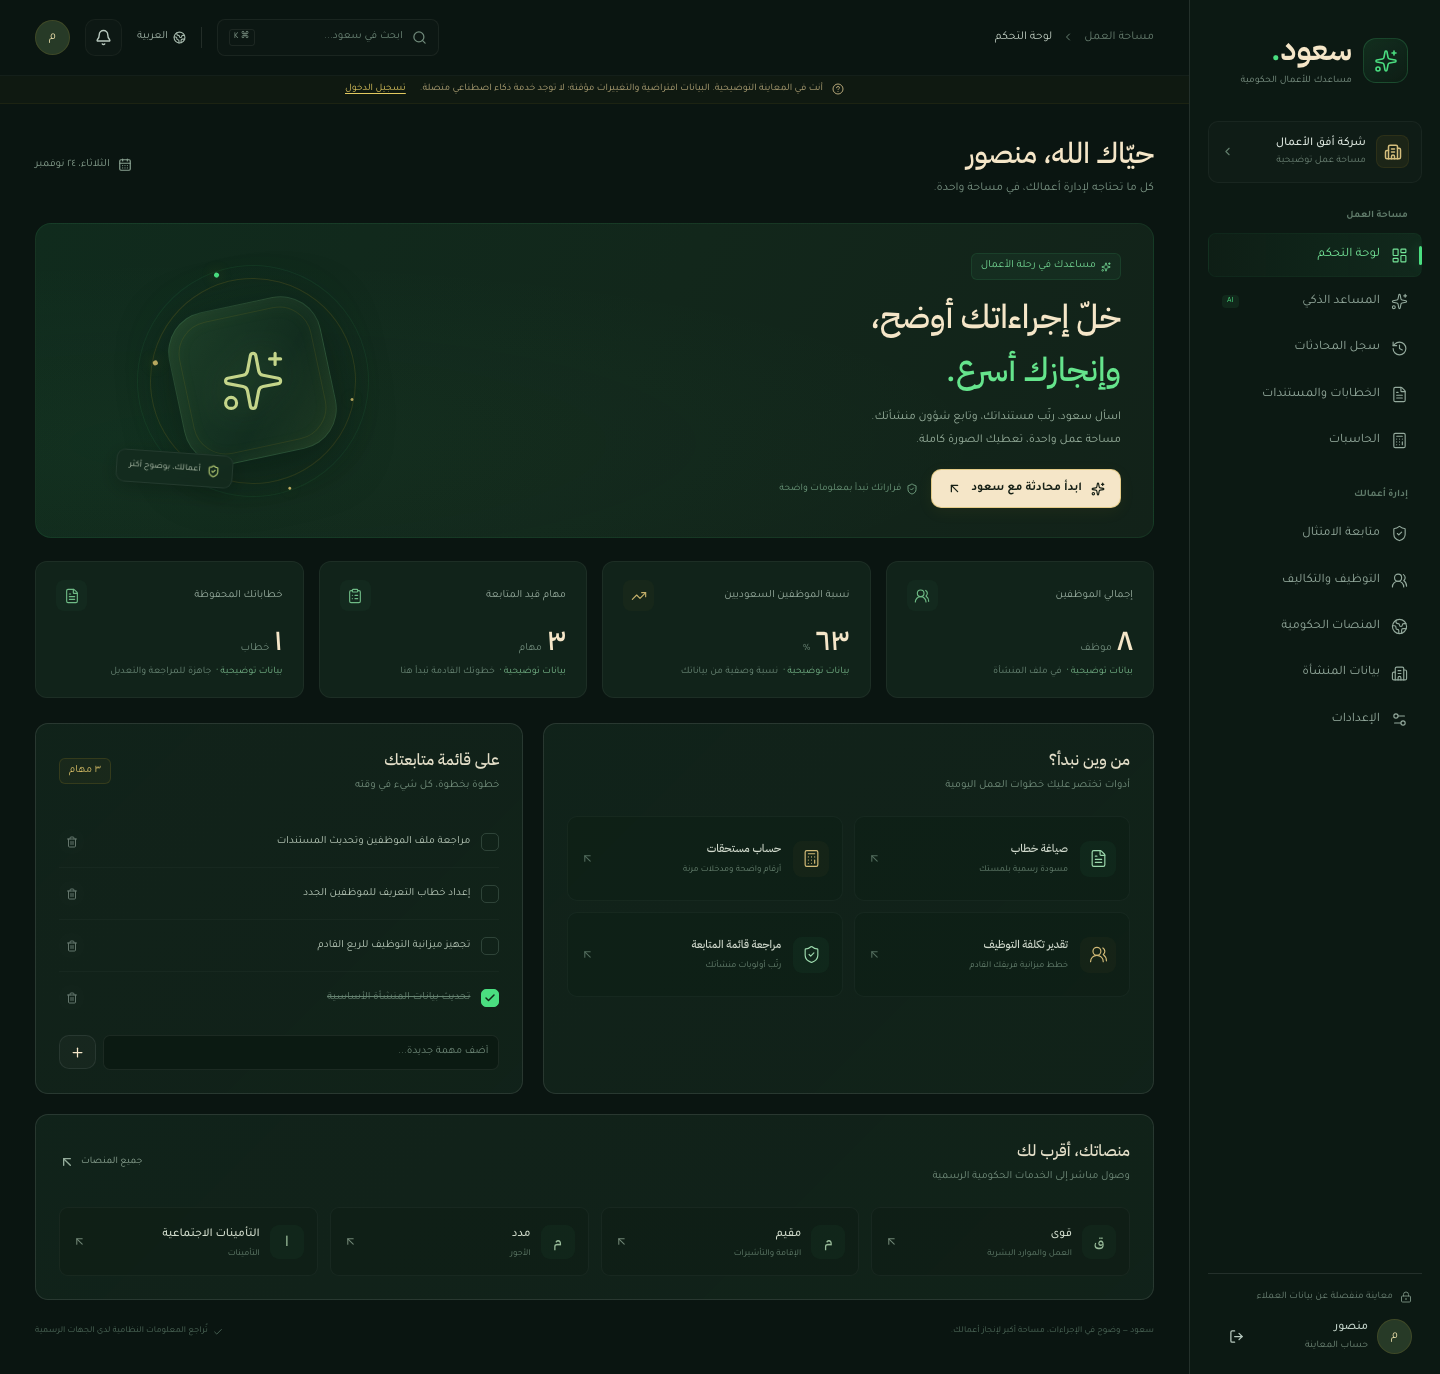
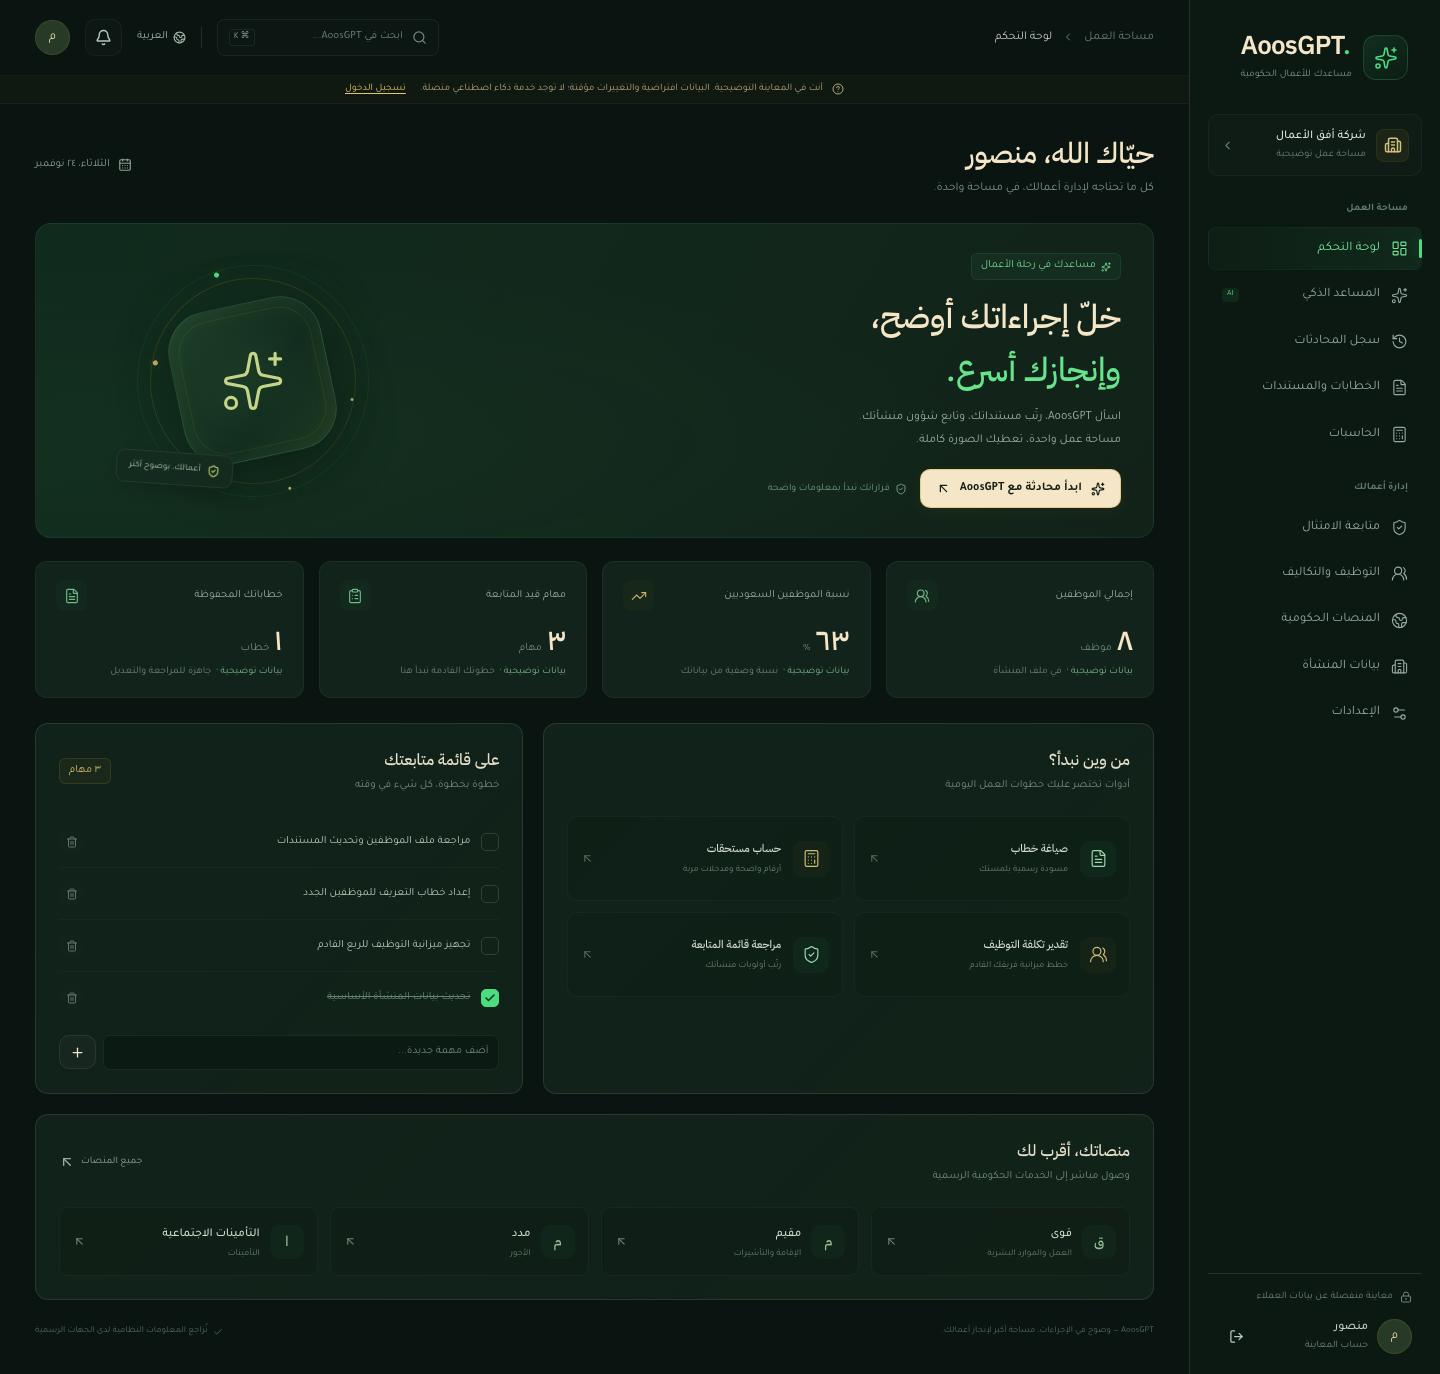
Record verified Mac browser results and refresh AoosGPT screenshots

diff --git a/web/docs/VALIDATION.md b/web/docs/VALIDATION.md
@@ -6,6 +6,8 @@
 
 الدفعة الحالية، بتاريخ **24 نوفمبر 2026 بتوقيت الرياض**، تغيّر اسم المساعد إلى AoosGPT، وتدمج المهارات الست بعد المراجعة مع ثلاثة مسارات مكملة، وتضيف وضع التعليم وعرض Markdown. لا تغيّر مخطط قاعدة البيانات أو هوية المستخدم أو سياسة عزل الشركات. تفاصيل مصدر المهارات وقرارات النقل في [مراجعة المهارات والمرجع](SKILLS_REVIEW.md).
 
+طُبّقت الدفعة على مشروع الماك في `/Users/aooos/Downloads/AoosGPT/web`. آخر مصدر تنفيذي خضع للبناء والمتصفح هو `0b2f23791c53074623a43b552ce7d7b598cd4f13`، وانتهت جولته بنجاح الساعة **11:03:27 صباحًا بتوقيت الرياض**. التحديث اللاحق لهذا التقرير والصور لا يغيّر مصدر التطبيق.
+
 ## الفحوص المنفذة
 
 | الفحص | النتيجة | ما يثبته |
@@ -13,16 +15,26 @@
 | ESLint | ناجح دون أخطاء أو تحذيرات في المصدر | اتساق الشيفرة وقواعد React/Next.js المطبقة. |
 | TypeScript | ناجح | توافق العقود والأنواع ومسارات التطبيق. |
 | Vitest | **150 اختبارًا ناجحًا في 12 ملفًا** | المصادقة وRLS والعزل والذاكرة وترتيب الرسائل واسترجاع المصادر والصوت والحاسبات، إضافة إلى توجيه المهارات ومرور الخيارات عبر API وتاريخ الرياض وعرض Markdown الآمن. |
-| بناء Next.js | ناجح للدفعة الحالية في بيئة العمل | إنشاء نسخة `standalone` وتجهيز ملفاتها الثابتة. لم يُعَد بناء هذه الدفعة على Mac بعد. |
+| بناء Next.js | **ناجح على Mac للمصدر النهائي** | إنشاء نسخة `standalone` وتجهيز ملفاتها الثابتة بعد إصلاح التمرير الأولي على الجوال. |
 | PostgreSQL فعلي + خادم الإنتاج | **22 مجموعة سيناريوهات ناجحة** | الترحيلات 001–003، الدخول والدعوات وإلغاؤها، الأدوار، الفصل بين الشركات، CRUD، سحب الجلسات، ترتيب الرسائل، وخصائص كوكي الإنتاج وترويسة العميل الموثوق. |
-| متصفح الكمبيوتر والجوال | **18 اختبارًا معرفًا؛ التنفيذ الحالي متعطل بالبيئة** | 9 اختبارات لكل قياس. تعذّر تشغيل Chromium محليًا لأن البيئة ترفض إنشاء مقبس العملية، ولم يستجب اتصال Mac. نجح جمع الاختبارات بواسطة Playwright، لكنه ليس نجاح تنفيذ. |
+| متصفح الكمبيوتر والجوال | **18 اختبارًا ناجحًا، دون تخطٍ؛ 9 لكل قياس** | التنفيذ الفعلي على Mac عبر Chromium. يشمل المهارات ووضع التعليم والمسودات وMarkdown وصلاحية المشاهد، وظهور الترحيب كاملًا قبل اللقطة وبعد بدء محادثة جديدة. اكتمل المشغّل في **23 مجموعة سيناريوهات** تشمل فحوص API/SQL والمتصفح. |
 | تدقيق تبعيات الإنتاج | **0 ثغرات مبلغ عنها** | نتيجة `npm audit --omit=dev` وقت التنفيذ؛ ليست ضمانًا بعدم وجود ثغرات غير معلنة. |
 
 تستخدم فحوص SQL كلًا من PGlite ومحرك PostgreSQL مؤقت عبر `embedded-postgres`. تُنشأ كلمات المرور والحسابات الاختبارية عشوائيًا، ويُحذف عنقود الاختبار عند الانتهاء. لا تُستخدم قاعدة المشغّل أو مفاتيح مزود حي.
 
-شُغّل `npm run check` كاملًا و`npm run test:production` على المصدر الحالي. نجحت مجموعات الإنتاج الـ22 باستخدام PostgreSQL فعلي ودور تشغيل محدود، دون استدعاء مزود حي. راجع مدقق مستقل تغييرات المهارات والواجهة، وأعاد تشغيل 82 اختبارًا مرتبطًا بها عبر أربعة ملفات؛ هذه مجموعة فرعية من الـ150 وليست اختبارات إضافية. لم تتغير إصدارات التبعيات الموجودة عند إضافة مكتبات عرض Markdown.
+شُغّل `npm run check` كاملًا و`npm run test:production` على دفعة المهارات `d4719c2` في بيئة العمل. وبعد استعادة اتصال الماك، نجح عليه `npm ci` ثم `npm run check` بما فيه الاختبارات الـ150 والبناء. استخدم الماك Node.js `24.22.3` وnpm `11.19.1`. راجع مدقق مستقل تغييرات المهارات والواجهة، وأعاد تشغيل 82 اختبارًا مرتبطًا بها عبر أربعة ملفات؛ هذه مجموعة فرعية من الـ150 وليست اختبارات إضافية. لم تتغير إصدارات التبعيات الموجودة عند إضافة مكتبات عرض Markdown.
 
-**سجل المتصفح السابق منفصل:** نجحت 12 حالة من 12 على Mac عند النسخة `cbbe831` قبل هذه الدفعة، واكتمل حينها التكامل في 23 مجموعة تشمل المتصفح. لا تُستخدم تلك النتيجة لإثبات سلامة التخطيط والتفاعل بعد تغيير الاسم وإضافة أدوات المهارات. محاولة معاينة البناء الحالي عبر المتصفح السحابي لم تتمكن من الوصول إلى خادم العمل المحلي، فلا تُحسب فحصًا بصريًا ناجحًا. المزامنة إلى Mac والنشر على الفرع البعيد لم ينجزا لهذه الدفعة أثناء تعطل اتصال الجهاز.
+### ما كشفه التنفيذ على الماك
+
+1. أخفقت أول جولة متصفح في ست حالات بسبب محددات `getByLabel` للقائمتين، بينما ظهر اسمهما المتاح الصحيح بوصفهما `combobox`. صحّح الالتزام `ca588b1` المحددات الستة فقط، دون حذف أي تحقق أو زيادة مهل الانتظار؛ نجحت بعدها الحالات الـ18.
+2. كشفت مراجعة الصور رغم ذلك قص بداية الترحيب على الجوال. كان `scrollIntoView` ينقل المحادثة الفارغة إلى أسفل محتواها. أصلح الالتزام `0b2f237` التمرير بحيث تبدأ الحالة الفارغة من أعلى حاويتها، مع إبقاء الانتقال إلى آخر الرسائل أثناء المحادثة. أضيف فحص ظهور الأيقونة والعنوان كاملين عند الفتح وبعد «محادثة جديدة»، وفحص ظهور الرد الأخير.
+3. أُعيد بناء `0b2f237` على الماك ثم تشغيل `npm run test:e2e`: نجحت **18/18** حالة في **35.4 ثانية**، واكتملت **23 مجموعة سيناريوهات**، وخَرَج الأمران بالرمز صفر. روجعت اللقطة الجديدة للتأكد من زوال القص، إضافة إلى لقطات لوحة التحكم والدخول على الكمبيوتر والجوال.
+
+اختبار ردود المساعد داخل المتصفح يستخدم استجابات محاكية معلنة لفحص الطلب والعرض، ولا يثبت جودة جواب نموذج حي. أما الدخول وحفظ البيانات والأدوار وعزل الشركات فتُختبر ضد PostgreSQL فعلي مؤقت. لا تُجمع أعداد مجموعات التكامل مع عدد حالات Playwright باعتبارها اختبارات مستقلة إضافية.
+
+حُفظت سجلات الماك التفصيلية في `.local/skills-validation-mac.json` و`.local/skills-validation-mac-e2e.json` و`.local/mobile-validation-mac.json` مع ملفات `.log` المقابلة. جرى التحقق من بصمات الملفات قبل النقل وبعده، ومن بقاء HEAD وفهرس Git و36 ملفًا خارج `web` كما كانت. بقيت نسخة التطبيق الأصلي وتعديلاتها المحلية محفوظة؛ مرجع المصدر المختبَر هو فرع الويب ومحتواه، وليس HEAD الخاص بنسخة التطبيق الأصلي.
+
+**السجل السابق منفصل:** نجحت 12 حالة من 12 عند `cbbe831` قبل دمج المهارات. لا تُستخدم تلك النتيجة لإثبات الدفعة الحالية. كذلك لا تُحسب محاولة المتصفح السحابي التي تعذّر فيها الوصول إلى خادم العمل المحلي ضمن الفحوص الناجحة؛ دليل الدفعة الحالية هو تشغيل Chromium على الماك والنتائج المذكورة أعلاه.
 
 ## نقاط راجعها المدقق المستقل
 
@@ -34,6 +46,7 @@
 - إبقاء المستندات والذاكرة خارج التعليمات المعتمدة والتوجيه، والتمييز بين تاريخ الطلب وتاريخ التحقق وتاريخ النفاذ.
 - منع HTML والصور الخارجية والروابط التنفيذية والنسبية في الرد، مع عرض الجداول والقوائم وحالات المهام بأسماء مناسبة لقارئ الشاشة.
 - الحفاظ على المسودة عند استخدام مثال، ومنع الإرسال التلقائي وتجاوز حد النص، وتعطيل التعديل للمشاهد.
+- إظهار بداية الترحيب كاملة على الجوال، وإعادتها عند بدء محادثة جديدة، دون تعطيل التمرير إلى آخر رد في المحادثات القائمة.
 
 الضوابط الأساسية التي راجعها الفريق في الدفعة السابقة وبقيت اختبارات انحدارها ناجحة:
 
@@ -60,6 +73,8 @@
 اختبار الإنتاج المنفصل يصل إلى خادم Next.js الداخلي مع أصل HTTPS مضبوط وترويسة `X-Aoos-Client-IP`. يتحقق من `Secure` و`HttpOnly` و`SameSite=Lax` وبادئة `__Host-`، ويرفض غياب الترويسة الموثوقة أو تعدد عناوينها. إعداد Caddy يستبدل الترويسة من الاتصال الفعلي ويحجب منفذ الويب عن الوصول العام في Compose.
 
 ## ما يتطلب تحقق التشغيل الحي
+
+فحص إعدادات مشروع الويب على الماك في هذه الجولة وجد أن `.env` و`.env.local` غير موجودين، وأن متغيرات قاعدة البيانات ومزود المحادثة والتفريغ وAzure Speech غير مضبوطة. لذلك المتاح للتشغيل مباشرةً على الجهاز هو المعاينة التوضيحية. حسابات قاعدة الاختبار مؤقتة ولا تُستخدم بوصفها حسابات تشغيل حقيقية.
 
 1. تزويد حساب تشغيل حقيقي لقاعدة PostgreSQL، وتشغيل النسخ الاحتياطي والاستعادة وسياسة الاحتفاظ على الاستضافة المختارة.
 2. إنشاء المدير الأول ببيانات المشغّل عبر الأداة المحلية؛ لم يُنشأ حساب افتراضي أو تُنقل كلمات مرور الأجهزة.
